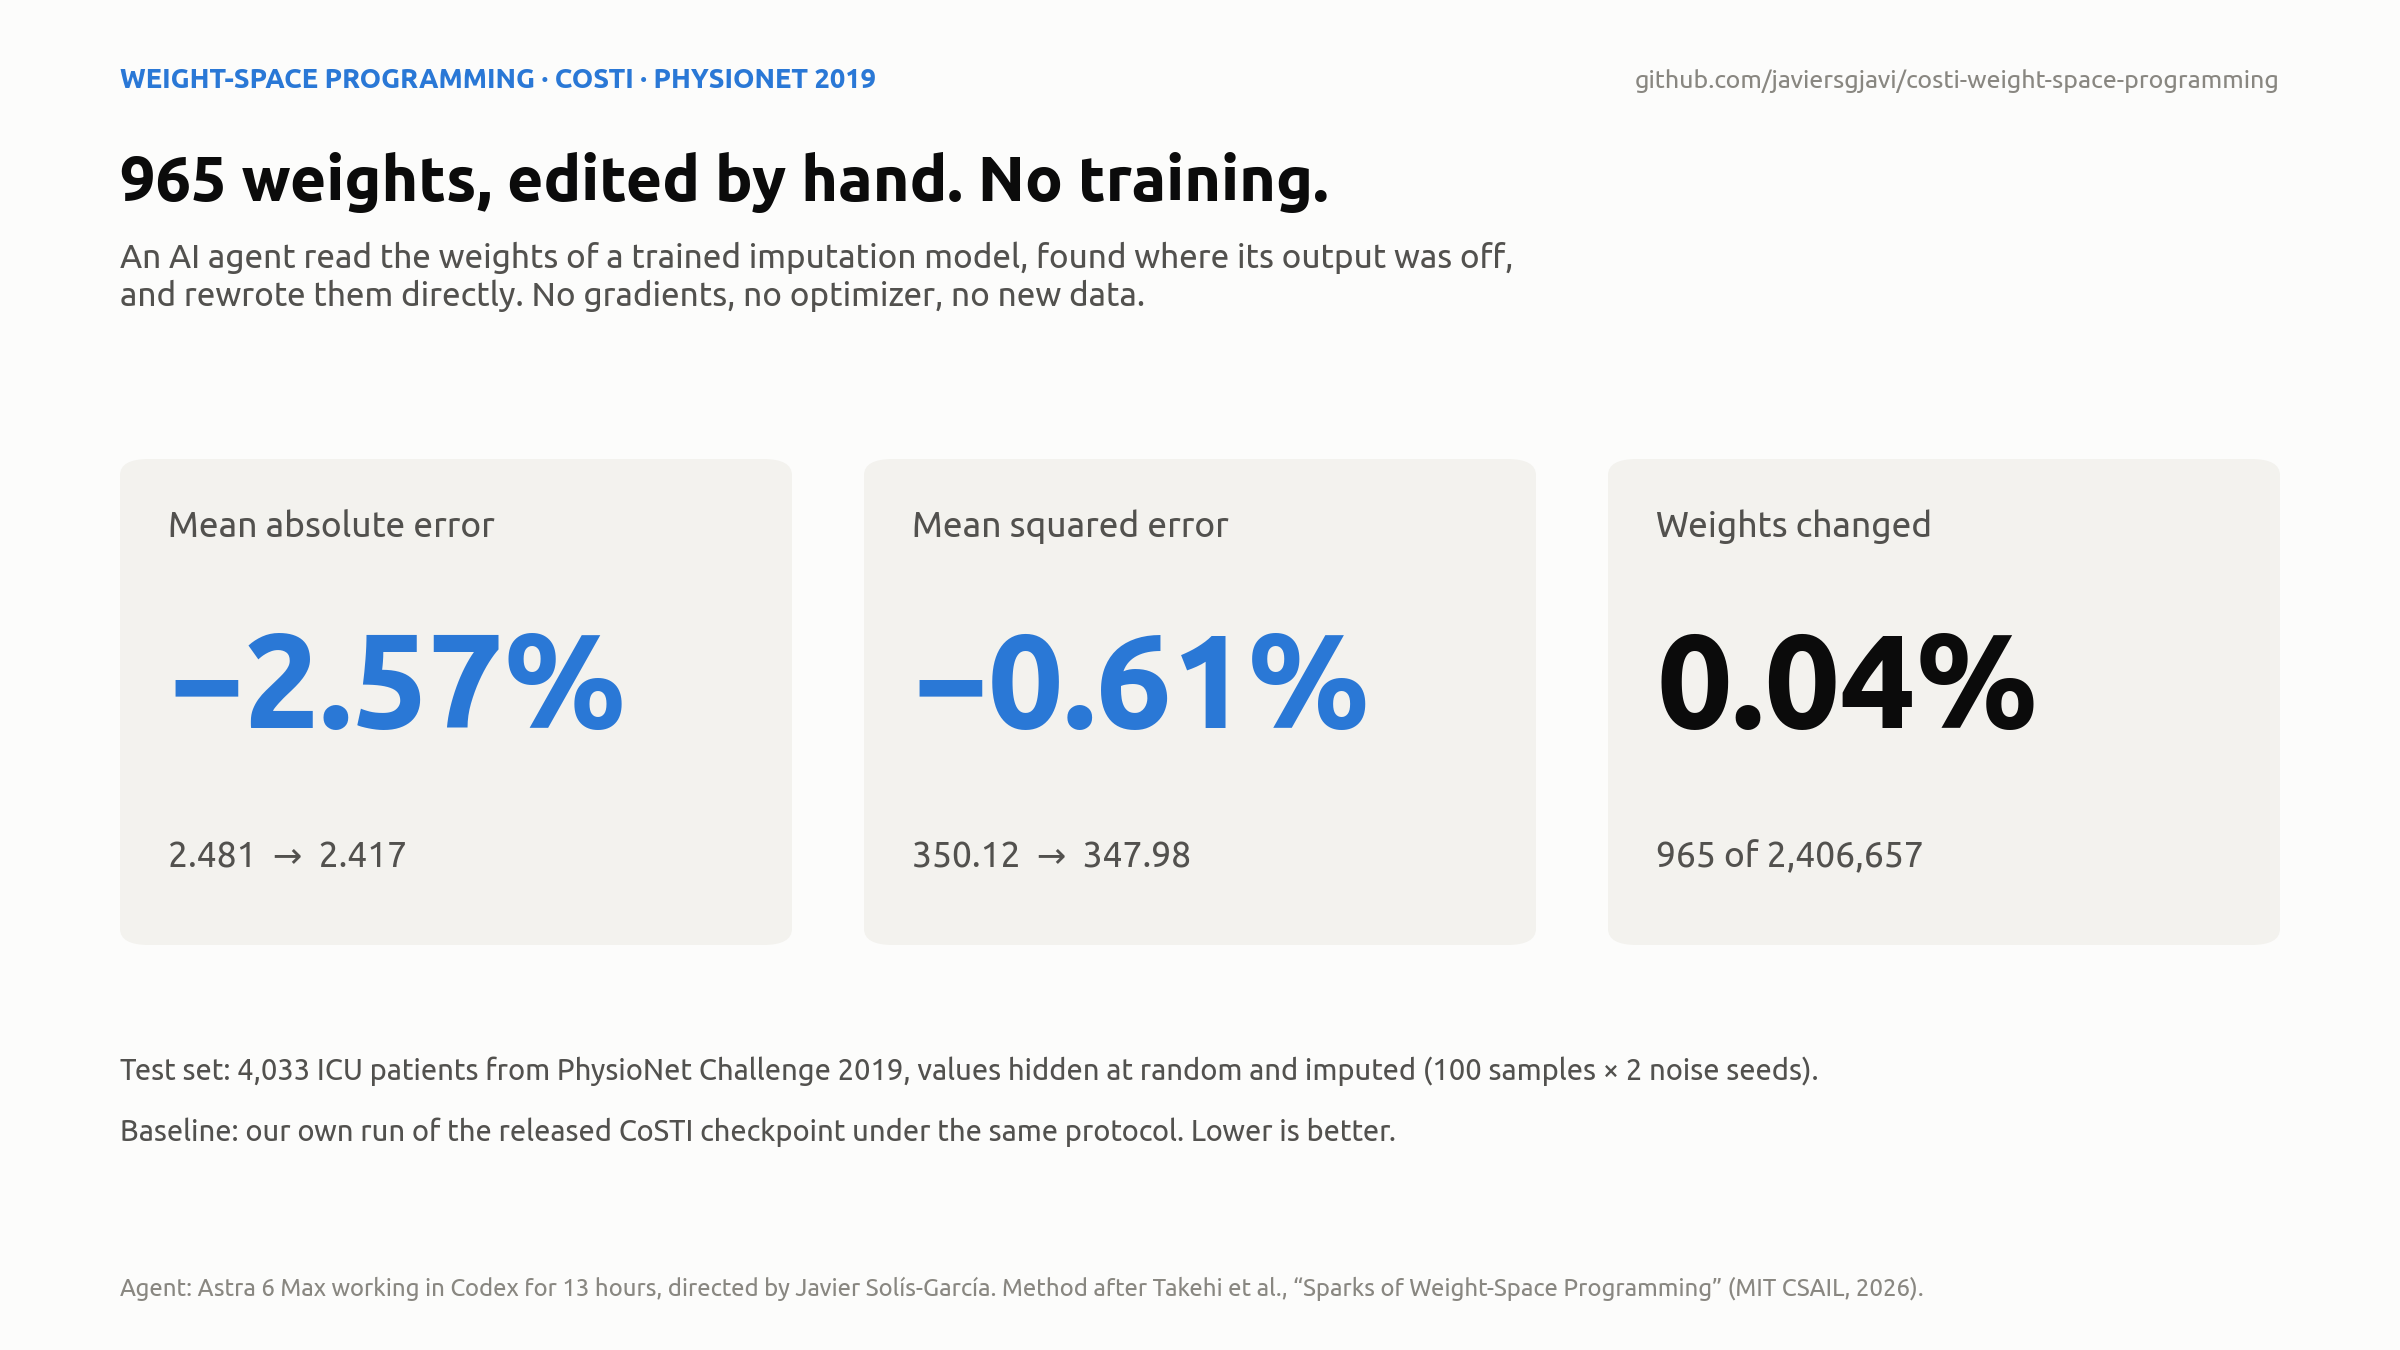
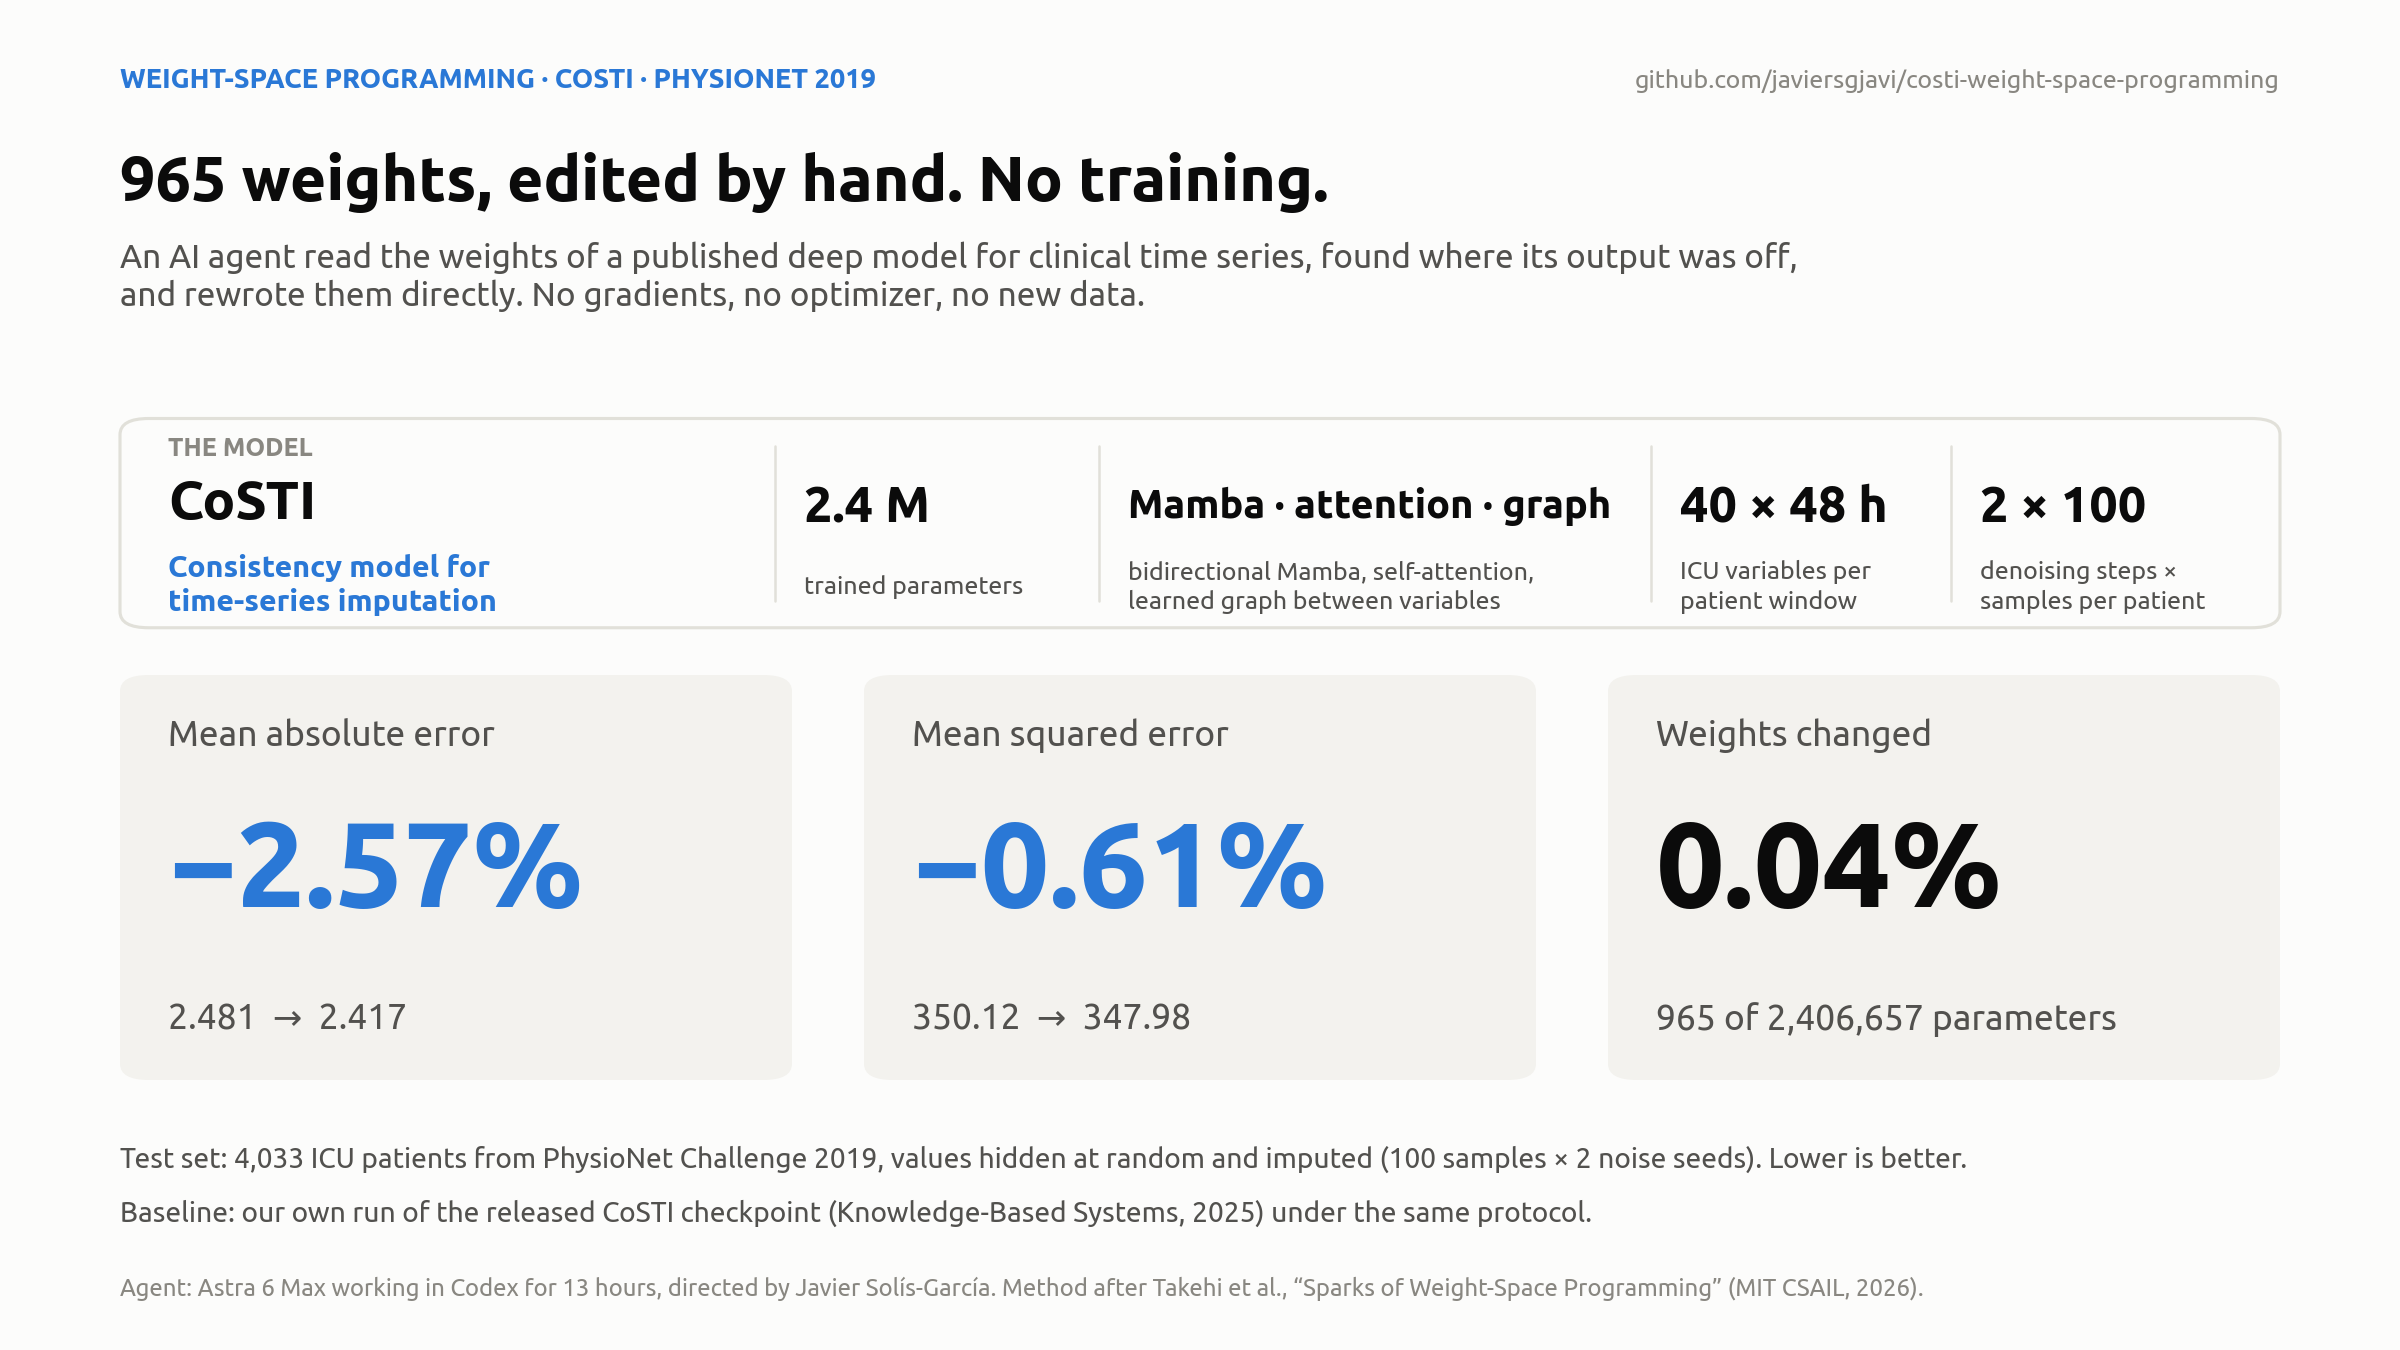
Show what the model is on the cover figure
Add a strip with CoSTI's type (consistency model for time-series
imputation), its 2.4 M parameters, architecture, input size and
sampling, so the scale of the edited model is visible.

diff --git a/scripts/make_figures.py b/scripts/make_figures.py
@@ -21,6 +21,7 @@ import matplotlib.pyplot as plt  # noqa: E402
 import numpy as np  # noqa: E402
 import pandas as pd  # noqa: E402
 from matplotlib import font_manager  # noqa: E402
+import matplotlib.lines  # noqa: E402
 
 ROOT = Path(__file__).resolve().parent.parent
 DATA = ROOT / "results" / "data"
@@ -116,8 +117,31 @@ def fig_headline():
 
     fig = canvas("Weight-space programming · CoSTI · PhysioNet 2019",
                  "965 weights, edited by hand. No training.",
-                 "An AI agent read the weights of a trained imputation model, found where its output "
-                 "was off,\nand rewrote them directly. No gradients, no optimizer, no new data.")
+                 "An AI agent read the weights of a published deep model for clinical time series, found where "
+                 "its output was off,\nand rewrote them directly. No gradients, no optimizer, no new data.")
+
+    # The model, as a strip of facts, so the reader sees what was edited.
+    card = matplotlib.patches.FancyBboxPatch(
+        (0.05, 0.535), 0.90, 0.155, boxstyle="round,pad=0,rounding_size=0.012",
+        transform=fig.transFigure, facecolor="none", edgecolor=GRID, linewidth=1.5)
+    fig.patches.append(card)
+    fig.text(0.07, 0.668, "THE MODEL", fontsize=12, color=MUTED, weight="bold", va="center")
+    fig.text(0.07, 0.627, "CoSTI", fontsize=26, weight="bold", va="center")
+    fig.text(0.07, 0.567, "Consistency model for\ntime-series imputation", fontsize=14.5, color=BLUE, weight="bold",
+             va="center", linespacing=1.25)
+    facts = [
+        (f"{counts['registered_parameters'] / 1e6:.1f} M", "trained parameters"),
+        ("Mamba · attention · graph", "bidirectional Mamba, self-attention,\nlearned graph between variables"),
+        ("40 × 48 h", "ICU variables per\npatient window"),
+        ("2 × 100", "denoising steps ×\nsamples per patient"),
+    ]
+    xs = [0.335, 0.47, 0.70, 0.825]
+    for x, (big, small) in zip(xs, facts):
+        fig.text(x, 0.625, big, fontsize=24 if len(big) < 10 else 19, weight="bold", va="center")
+        fig.text(x, 0.565, small, fontsize=12, color=INK_2, va="center", linespacing=1.3)
+    for x in xs:
+        fig.add_artist(matplotlib.lines.Line2D([x - 0.012, x - 0.012], [0.555, 0.67], color=GRID, lw=1.2,
+                                               transform=fig.transFigure))
 
     tiles = [
         ("Mean absolute error", f"−{abs(v4.mae_change_vs_original_pct):.2f}%",
@@ -125,24 +149,24 @@ def fig_headline():
         ("Mean squared error", f"−{abs(v4.mse_change_vs_original_pct):.2f}%",
          f"{o.mse:.2f}  →  {v4.mse:.2f}"),
         ("Weights changed", f"{counts['percent_registered_parameters_changed']:.2f}%",
-         f"{counts['changed_parameters']:,} of {counts['registered_parameters']:,}"),
+         f"{counts['changed_parameters']:,} of {counts['registered_parameters']:,} parameters"),
     ]
     for i, (label, value, detail) in enumerate(tiles):
         x = 0.05 + i * 0.31
         fig.patches.append(matplotlib.patches.FancyBboxPatch(
-            (x, 0.30), 0.28, 0.36, boxstyle="round,pad=0,rounding_size=0.012",
+            (x, 0.2), 0.28, 0.30, boxstyle="round,pad=0,rounding_size=0.012",
             transform=fig.transFigure, facecolor="#f3f2ee", edgecolor="none"))
-        fig.text(x + 0.02, 0.61, label, fontsize=17, color=INK_2, va="center")
-        fig.text(x + 0.02, 0.49, value, fontsize=64, weight="bold",
+        fig.text(x + 0.02, 0.455, label, fontsize=17, color=INK_2, va="center")
+        fig.text(x + 0.02, 0.355, value, fontsize=58, weight="bold",
                  color=BLUE if i < 2 else INK, va="center")
-        fig.text(x + 0.02, 0.365, detail, fontsize=17, color=INK_2, va="center")
+        fig.text(x + 0.02, 0.245, detail, fontsize=17, color=INK_2, va="center")
 
-    fig.text(0.05, 0.20,
+    fig.text(0.05, 0.135,
              "Test set: 4,033 ICU patients from PhysioNet Challenge 2019, values hidden at random and imputed "
-             "(100 samples × 2 noise seeds).", fontsize=14, color=INK_2)
-    fig.text(0.05, 0.155,
-             "Baseline: our own run of the released CoSTI checkpoint under the same protocol. Lower is better.",
-             fontsize=14, color=INK_2)
+             "(100 samples × 2 noise seeds). Lower is better.", fontsize=13.5, color=INK_2)
+    fig.text(0.05, 0.095,
+             "Baseline: our own run of the released CoSTI checkpoint (Knowledge-Based Systems, 2025) under the "
+             "same protocol.", fontsize=13.5, color=INK_2)
     footer(fig, "Agent: Astra 6 Max working in Codex for 13 hours, directed by Javier Solís-García. "
                 "Method after Takehi et al., "
                 "“Sparks of Weight-Space Programming” (MIT CSAIL, 2026).")
